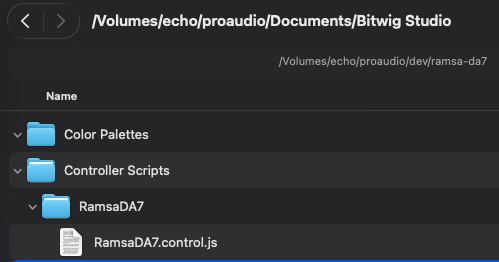
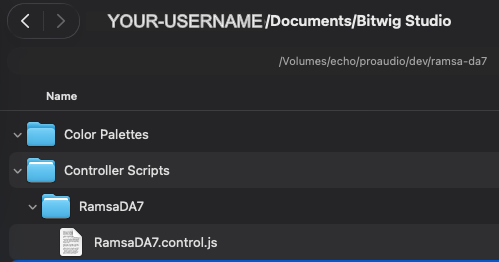
Added images

Changed region(s): [[0.1804, 0.0305, 0.5411, 0.1221]]

diff --git a/README.md b/README.md
@@ -13,6 +13,8 @@ The script expects the DA7 to send MIDI Control Change (CC) messages for its fad
 
 ## Main controls
 
+![Ramsa DA7 Bitwig Controller Layout](./images/RamsaDA7.png)
+
 ### Faders 1–8: track volume
 
 - Control the volume of the eight tracks in the current Bitwig track bank.
@@ -91,27 +93,13 @@ The script listens for these exact MMC-style SysEx messages:
 
 | DA7 navigation action | SysEx bytes | In Mixer Mode | In Device Mode |
 |---|---|---|---|
-| Left | `F0 7F 00 06 05 F7` | Select previous cursor track | Select previous device |
-| Right | `F0 7F 00 06 04 F7` | Select next cursor track | Select next device |
-| Up | `F0 7F 00 06 03 F7` | Scroll to previous track-bank page | Select previous remote-control page |
-| Down | `F0 7F 00 06 01 F7` or `F0 7F 00 06 09 F7` | Scroll to next track-bank page | Select next remote-control page |
-| Mode toggle | `F0 7F 00 06 06 F7` | Enter Device Mode | Return to Mixer Mode |
+| Left  | Select previous cursor track | Select previous device |
+| Right  | Select next cursor track | Select next device |
+| Up  | Scroll to previous track-bank page | Select previous remote-control page |
+| Down | Scroll to next track-bank page | Select next remote-control page |
+| Mode toggle | Enter Device Mode | Return to Mixer Mode |
 
 The script also calls `refreshSurface()` after navigation so the faders are sent updated positions.
-
-### Transport
-
-The script maps CC messages to Bitwig transport actions:
-
-| Action | CC number |
-|---|---:|
-| Rewind | 110 |
-| Fast-forward | 111 |
-| Stop | 112 |
-| Play | 113 |
-| Record | 114 |
-
-Transport actions trigger when the received value is considered “on” (default threshold: 64). Transport CC releases are consumed so they do not accidentally fall through to other mappings.
 
 ## Required Ramsa DA7 configuration
 
@@ -125,11 +113,6 @@ The DA7 must send the CC numbers expected by the script. In the DA7's **MIDI Rem
 | Mute buttons 9–16 | 41–48 | Reset the auxiliary/device parameter under each fader |
 | Solo buttons 1–8 | 50–57 | Track solo |
 | Solo button 9 | 58 | Toggle Pan / Pan + Sends mode |
-| Rewind | 110 | Bitwig rewind |
-| Fast-forward | 111 | Bitwig fast-forward |
-| Stop | 112 | Bitwig stop |
-| Play | 113 | Bitwig play |
-| Record | 114 | Bitwig record |
 
 **Important:** CC 41–48 is the eight-button range actually handled by the code (`CC_AUX_MUTE_FIRST = 41` plus eight controls). The opening comment in the script says `CC 41–47`, which omits the eighth control; configure **41–48** for the full set of reset buttons.
 
@@ -141,25 +124,6 @@ The default is MIDI channel index `0`, which is MIDI **Channel 1** in the usual 
 - Ensure Bitwig's controller input/output ports point to the DA7's MIDI input and output.
 - If the DA7 uses another channel, change `CONFIG.MIDI_CHANNEL` in the script to the corresponding zero-based channel index (`0`–`15`). Set it to `-1` to accept CC messages on all input channels. Output feedback still uses the configured output channel; with `-1`, the script outputs on Channel 1.
 
-### Button behavior
-
-The default script setting is:
-
-```js
-BUTTONS_ARE_LATCHING: true
-```
-
-This assumes the DA7's button CC values alternate between 127 and 0 on successive presses. With this setting, both values are treated as a press event; this is needed for a latching button that sends only one message per press.
-
-If the DA7 instead sends 127 when pressed and 0 when released, change this setting to `false`. Otherwise, the release message may be interpreted as another press.
-
-Mute and solo state is interpreted using:
-
-```js
-BUTTON_ON_THRESHOLD: 64
-```
-
-Values of 64–127 are treated as “on”; values below 64 are “off.” The script's mute and solo logic uses the received state to set the corresponding Bitwig state. Test the DA7's actual button-message behavior with a MIDI monitor if a button seems to respond only every other press or behaves inverted.
 
 ### Fader feedback and MIDI output
 
@@ -175,8 +139,12 @@ The script uses a 7-bit value range (0–127). It avoids resending unchanged val
 
 1. **Save the script** as `RamsaDA7.control.js`.
 2. **Place it in Bitwig's user controller-script directory.** On macOS, this is typically under the Bitwig Studio user directory in `Documents/Bitwig Studio/Controller Scripts/`; create a folder such as `Ramsa DA7` and put the file inside. If your Bitwig version uses a different user-data location, use that version's Controller Scripts directory.
+![My Bitwig script location](./images/bitiwg-script-location.png)
+
 3. **Restart Bitwig Studio** or refresh the controller-script list if your version supports it.
 4. Open **Settings → Controllers** and add the **Ramsa DA7** controller if it appears in the available controller list.
+![My Bitwig controller folder layout](./images/bitwig-generic-controller.png)
+
 5. Select the DA7's MIDI input and MIDI output ports for the controller.
 6. Configure the DA7 CC assignments according to the tables above, and verify it is transmitting on MIDI Channel 1 unless the script has been changed.
 7. Confirm the DA7 can receive MIDI feedback from Bitwig.
@@ -195,22 +163,19 @@ These settings are defined near the top of `RamsaDA7.control.js`:
 | `CC_AUX_MUTE_FIRST` | `41` | Start CC for reset buttons 9–16 |
 | `CC_SOLO_FIRST` | `50` | Start CC for solo buttons 1–8 |
 | `CC_AUX_MODE_TOGGLE` | `58` | Solo 9 mode-toggle CC |
-| `CC_TRANSPORT_REWIND` | `110` | Rewind CC; set to `-1` to disable |
-| `CC_TRANSPORT_FORWARD` | `111` | Fast-forward CC; set to `-1` to disable |
-| `CC_TRANSPORT_STOP` | `112` | Stop CC; set to `-1` to disable |
-| `CC_TRANSPORT_PLAY` | `113` | Play CC; set to `-1` to disable |
-| `CC_TRANSPORT_RECORD` | `114` | Record CC; set to `-1` to disable |
-| `FEEDBACK_BLOCK_MS` | `200` | Fader feedback suppression window after a physical move |
-| `SELECT_TRACK_ON_FADER_TOUCH` | `true` | Select the corresponding track when a volume/pan fader is moved |
-| `BUTTON_ON_THRESHOLD` | `64` | Threshold for interpreting button state as on |
-| `BUTTONS_ARE_LATCHING` | `true` | Treat every button CC message as a press for latching DA7 buttons |
+
+On the Ramsa DA7, you will set these values using these two pages:
+![My Bitwig controller folder layout](./images/RamsaDA7-controller-tracks.png)
+
+Make sure that you're in 'EDIT' mode, so that entering a control will bring up its configuration page:
+![My Bitwig controller folder layout](./images/RamsaDA7-controller-track-config.png)
 
 The controller's track bank has eight channels and follows Bitwig's cursor track. The code also creates a scene bank and enables clip-launcher indication on the first track's clip slots, but it does not define a dedicated set of clip-launch buttons.
 
 ## Troubleshooting
 
 ### Faders move but Bitwig parameters do not change
-- Check that the DA7 CC numbers match the table.
+- Check that the DA7 CC numbers match the table ranges and values.
 - Check that the DA7 is transmitting on Channel 1, or adjust `MIDI_CHANNEL`.
 - Confirm the correct DA7 MIDI input port is selected in Bitwig.
 - Confirm the fader's current mode: Pan mode, Pan + Sends mode, or Device Mode.
